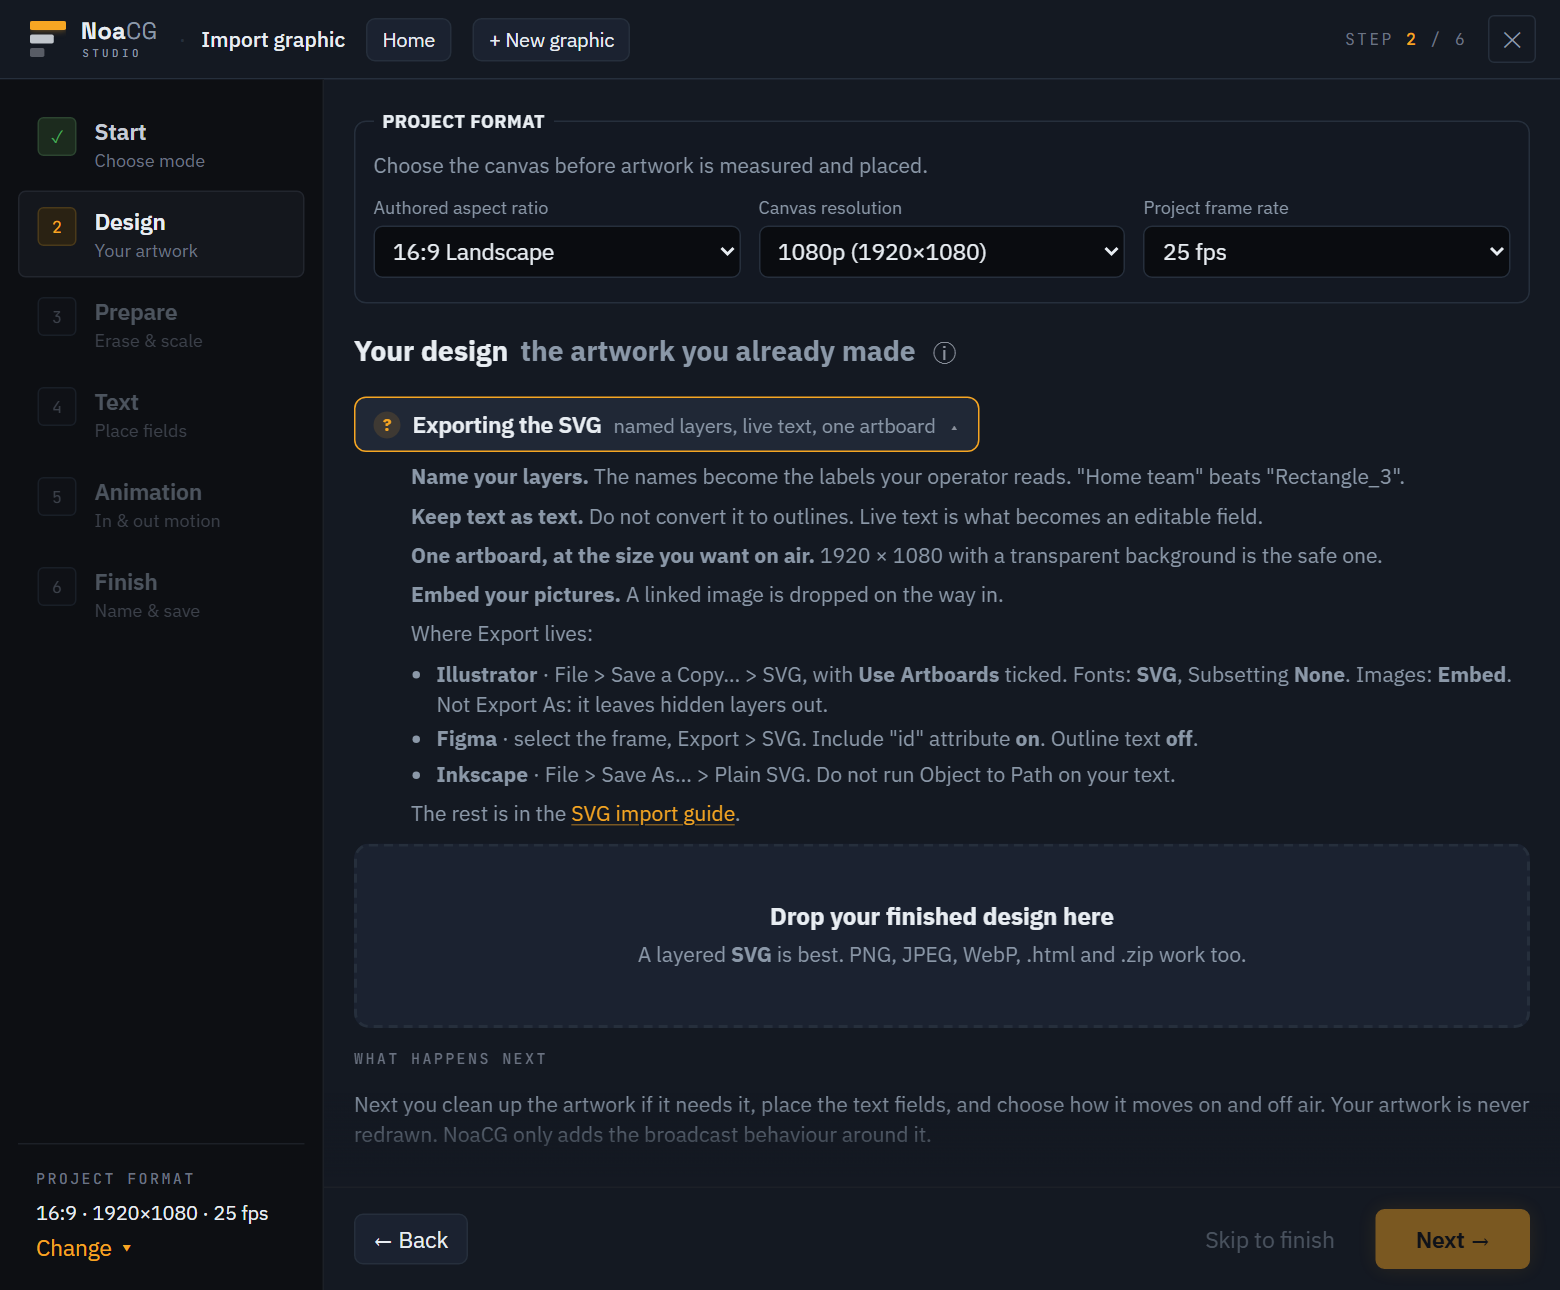
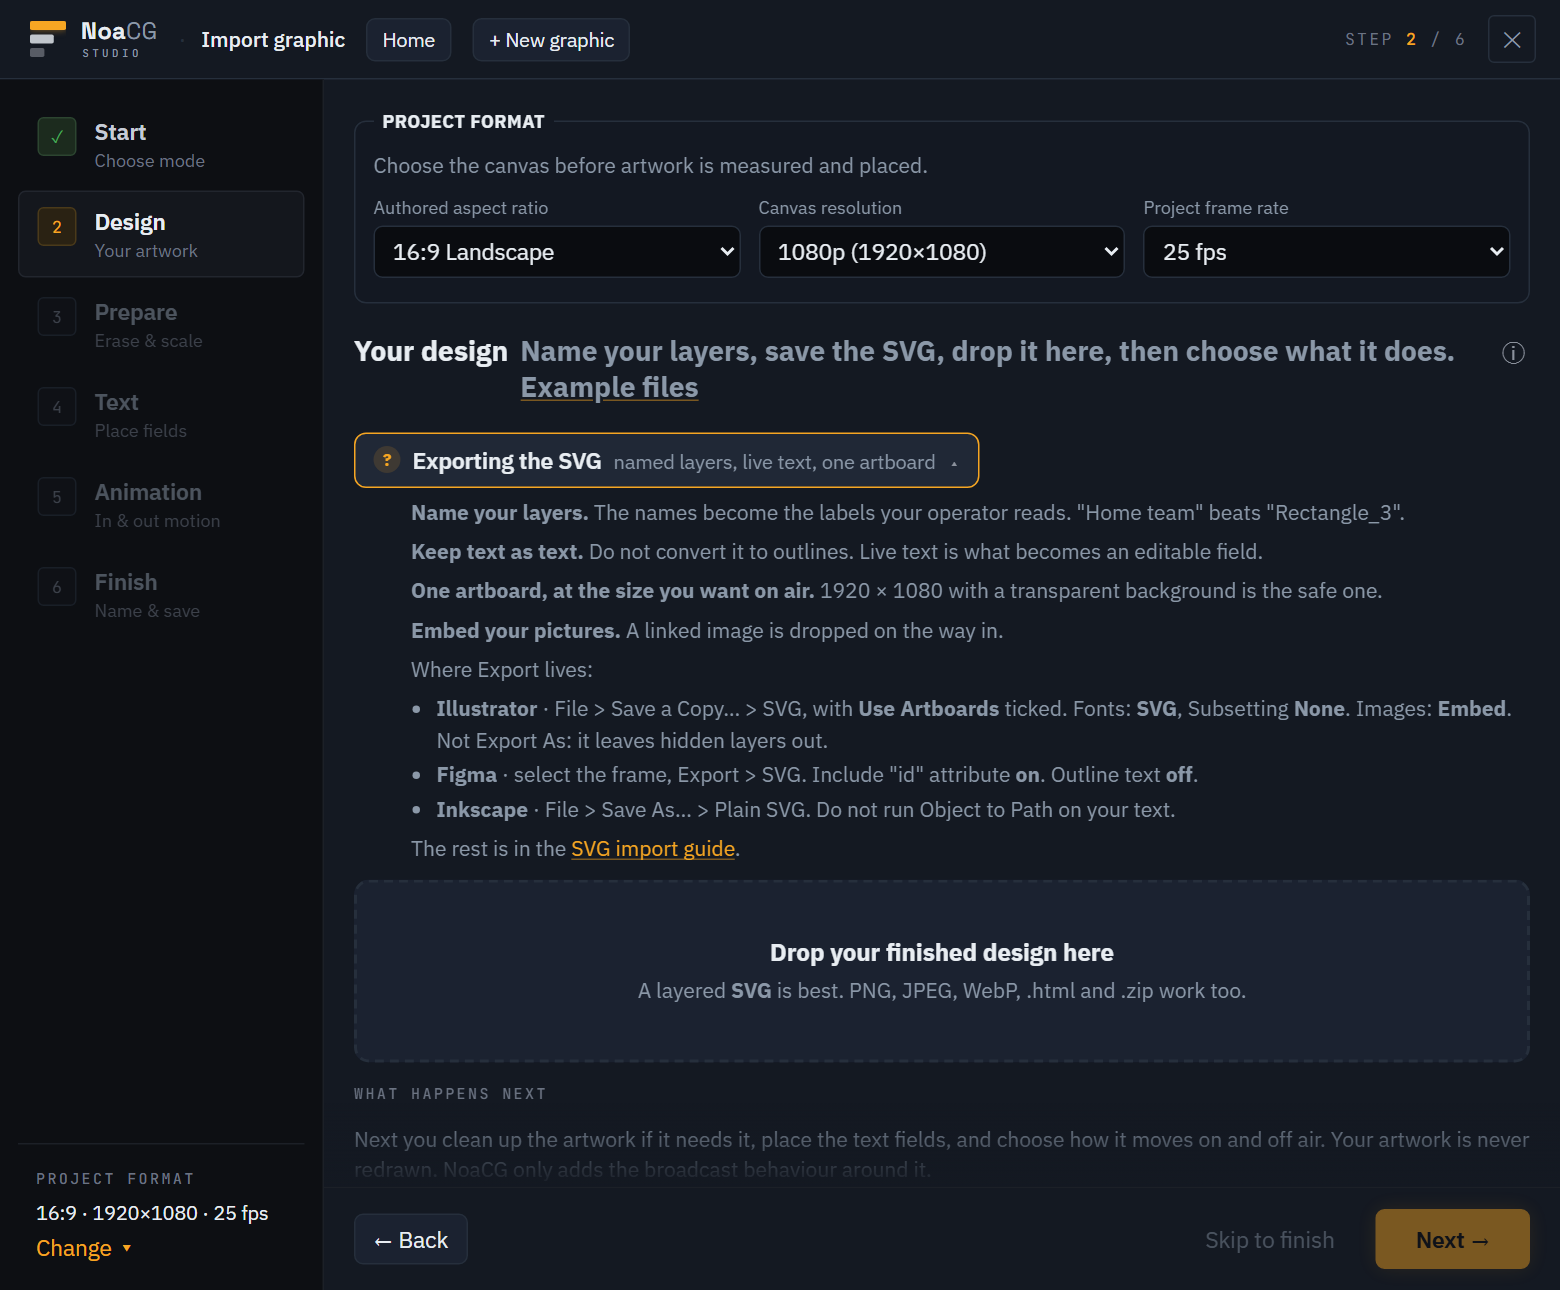
Say the SVG workflow on the Import design step and link the example files
The step's one visible summary line now reads 'Name your layers, save the SVG,
drop it here, then choose what it does.' followed by an 'Example files' link to
/downloads#svg-examples, replacing 'the artwork you already made'. The line is
one line from 1280 wide up and wraps below that, so the link is never cut off.
The link keeps the muted colour so the export strip's amber mark stays the
step's only accent. New e2e assertion covers the line and its fit; the docs
shot of the step is re-captured.

Changed region(s): [[0.2154, 0.2481, 0.9846, 0.6822], [0.2154, 0.8062, 0.9846, 0.8992], [0.4, 0.6822, 0.8, 0.7752]]

diff --git a/src/components/wizard/import/ImportDesignStep.tsx b/src/components/wizard/import/ImportDesignStep.tsx
@@ -8,6 +8,7 @@ import { importSvgMarkup, isSvgFile, type SvgImportResult } from '../../../asset
 import { isTemplateFile, type ImportedTemplateResult } from '../../../model/importTemplate';
 import ProjectFormatPicker from '../../ProjectFormatPicker';
 import SectionHead from '../SectionHead';
+import { SVG_EXAMPLES_URL } from '../../../downloads/links';
 
 interface Props {
   art: DesignArt | null;
@@ -266,9 +267,38 @@ export default function ImportDesignStep({
       />
 
       {/* ONE LINE PER THING, AND AN ⓘ FOR THE REST (GOALS goal 4): the drop zone carries one
-          line; what each format buys lives behind this dot. */}
+          line; what each format buys lives behind this dot.
+          THE SUMMARY IS THE WORKFLOW (owner, 2026-09-27): the SVG road should be obvious without
+          opening anything, so the one visible line walks it in order and links the layered
+          example package, which shows what "named layers" means better than any sentence. It
+          opens in a new tab so the walk underneath survives. No new block: the owner ruled
+          against adding text to this step, so the line replaced "the artwork you already made".
+          The link keeps the line's muted colour and only its underline is tinted: the amber
+          "?" on the export strip below is the step's one accent, and an amber link beside it
+          would make two.
+          One line from 1280 up (e2e/import-svg.spec.ts measures it). Narrower, it WRAPS rather
+          than ellipsizing like other section heads: cut off, the link is the first thing lost,
+          and the docs shot (1040 wide) would publish a sentence with its end missing. The title
+          holds together so it does not break into "Your / design" beside the wrapped line. */}
       {!art && !templateFile && !svg && (
-        <SectionHead title="Your design" summary="the artwork you already made" testid="import-design-why">
+        <SectionHead
+          title={<span style={{ whiteSpace: 'nowrap' }}>Your design</span>}
+          summary={
+            <span style={{ whiteSpace: 'normal' }}>
+              Name your layers, save the SVG, drop it here, then choose what it does.{' '}
+              <a
+                href={SVG_EXAMPLES_URL}
+                target="_blank"
+                rel="noreferrer"
+                style={{ color: 'inherit' }}
+                data-testid="import-design-examples"
+              >
+                Example files
+              </a>
+            </span>
+          }
+          testid="import-design-why"
+        >
           <p>
             An <strong>SVG</strong> from Illustrator, Figma or Inkscape is the best import. It
             stays pixel-exact, and its text layers become editable fields on their own.

diff --git a/e2e/import-svg.spec.ts b/e2e/import-svg.spec.ts
@@ -139,6 +139,43 @@ test('svg import: the export rules lead the drop step, above the zone', async ({
   await expect(page.getByTestId('import-svg-export-why')).toBeVisible();
 });
 
+// THE WORKFLOW IN ONE VISIBLE LINE (owner, 2026-09-27: the SVG road should be obvious - name the
+// layers, import the SVG, say how it behaves). Before a drop, the step's summary line walks that
+// road in order and links the layered example package on /downloads. It is the one line the
+// section head allows (GOALS goal 4), so it must fit whole, never ellipsized, at 1366x768 and at
+// 1280, the two laptop widths the wizard is walked at.
+test('svg import: the design step says the workflow in one line and links the example files', async ({ page }) => {
+  await page.setViewportSize({ width: 1366, height: 768 });
+  await page.goto('/app');
+  await expect(page.locator('.wz-modal')).toBeVisible();
+  await page.locator('[data-entry="import-graphic"]').click();
+
+  const line = page.locator('.wz-sec-head .muted', { has: page.getByTestId('import-design-examples') });
+  await expect(line).toBeVisible();
+  await expect(line).toContainText('Name your layers');
+  await expect(line).toContainText('SVG');
+  await expect(line).toContainText('choose what it does');
+  const examples = line.locator('a[href^="/downloads"]');
+  await expect(examples).toBeVisible();
+  await expect(examples).toHaveAttribute('href', '/downloads#svg-examples');
+
+  for (const size of [{ width: 1366, height: 768 }, { width: 1280, height: 800 }]) {
+    await page.setViewportSize(size);
+    const fit = await line.evaluate((el) => {
+      const link = el.querySelector('a')!.getBoundingClientRect();
+      const box = el.getBoundingClientRect();
+      return { overflow: el.scrollWidth - el.clientWidth, linkInside: link.right <= box.right + 0.5 };
+    });
+    expect(fit.overflow, `summary ellipsized at ${size.width}`).toBeLessThanOrEqual(0);
+    expect(fit.linkInside, `example link cut off at ${size.width}`).toBe(true);
+  }
+
+  // It belongs to the empty step: once a file is in, the card below says what was found instead.
+  await page.locator('.wz-drop input[type="file"]').setInputFiles(FIXTURE);
+  await expect(page.getByTestId('import-svg-card')).toBeVisible();
+  await expect(page.getByTestId('import-design-examples')).toHaveCount(0);
+});
+
 test('svg import: mapping — labels from layer names, all on by default, edits carried to the template', async ({ page }) => {
   await dropSvg(page);
   await page.locator('.wz-next').click();
